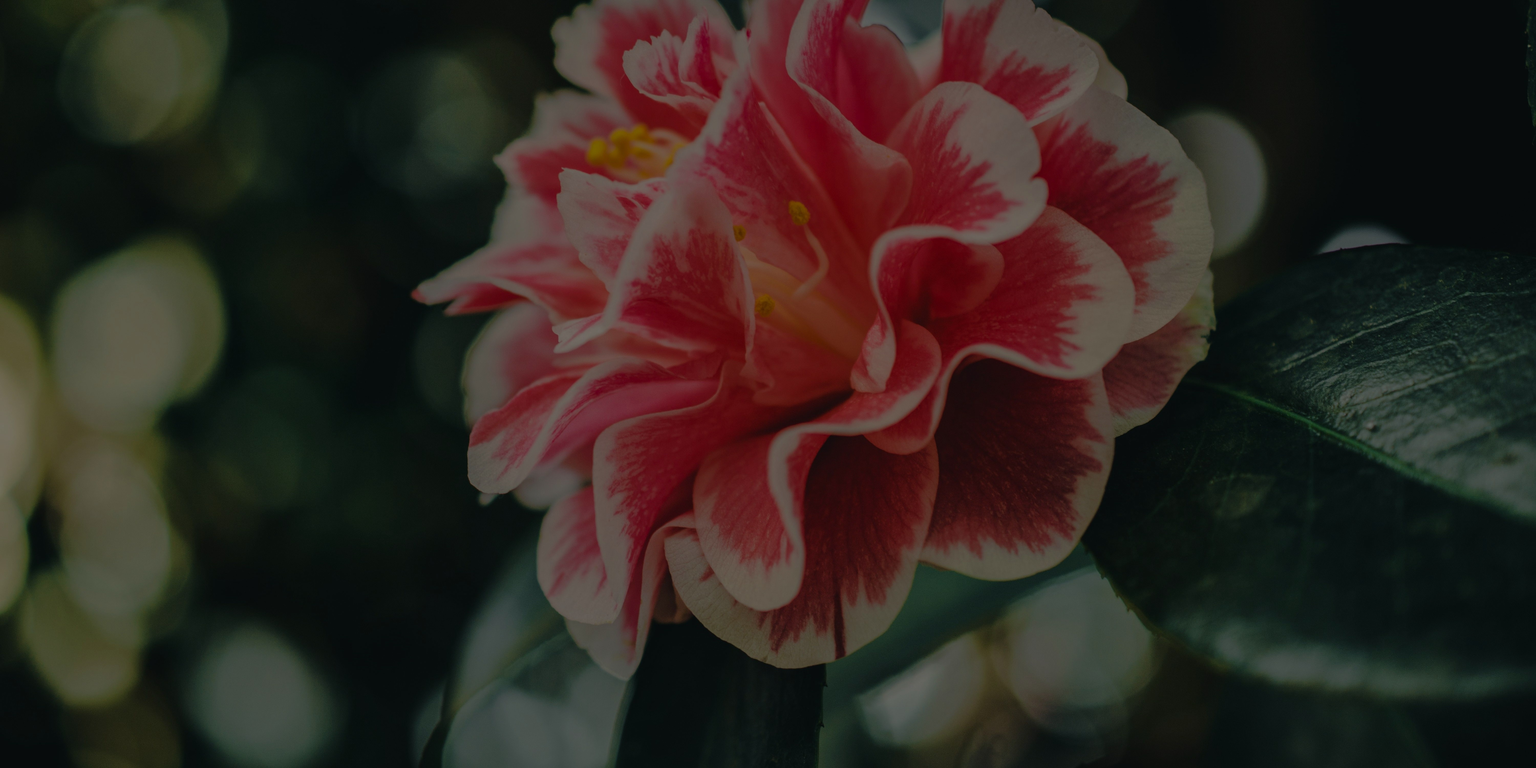
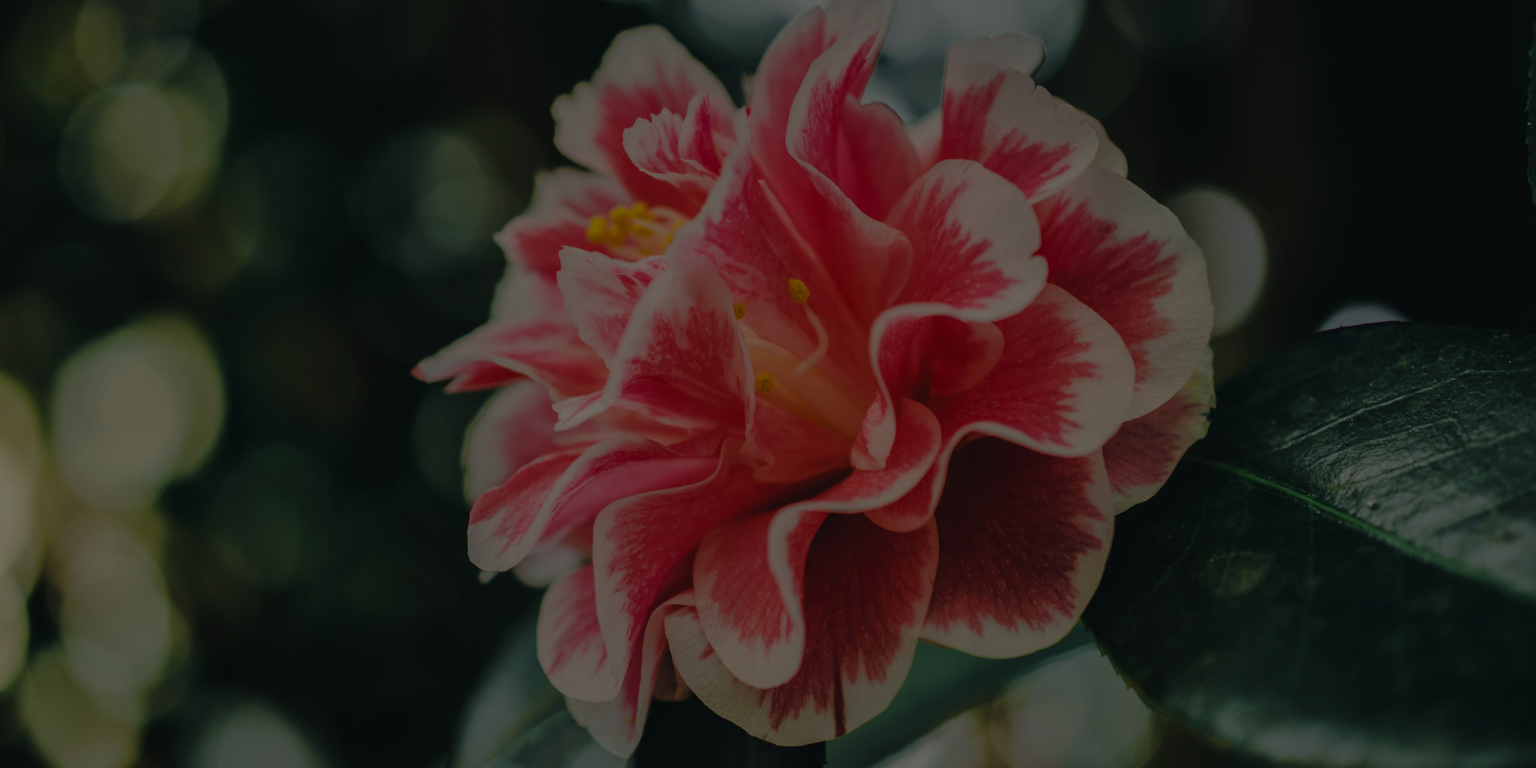
Creación y uso de las interfaces

diff --git a/src/app/pages/home/home.html b/src/app/pages/home/home.html
@@ -1,19 +1,31 @@
 <div id="carousel" class="carousel slide">
   <div class="carousel-indicators">
-    <button type="button" data-bs-target="#carousel" data-bs-slide-to="0" class="active" aria-current="true" aria-label="Slide 1"></button>
+    <button type="button" data-bs-target="#carousel" data-bs-slide-to="0" class="active" aria-current="true"
+      aria-label="Slide 1"></button>
     <button type="button" data-bs-target="#carousel" data-bs-slide-to="1" aria-label="Slide 2"></button>
     <button type="button" data-bs-target="#carousel" data-bs-slide-to="2" aria-label="Slide 3"></button>
   </div>
   <div class="carousel-inner">
-    <div class="carousel-item active">
-      <img src="../../../assets/camelia.jpg" class="d-block w-100" alt="...">
-      <div class="carousel-caption d-none d-md-block">
-        <h5>FLORES</h5>
-        <p>¡Haz click acá para comprar flores!</p>
+    <div *ngFor="let i of infoCarrusel" class="col-lg-3 col-md-3 col-sm-12 col-xs-12 mb-4 ">
+      <div class="carousel-item active">
+        <img src="../../../assets/camelia.jpg" class="d-block w-100" alt="...">
+        <div class="carousel-caption d-none d-md-block">
+          <h5>{{i.titulo}}</h5>
+          <p>¡Haz click acá para comprar flores!</p>
+        </div>
+
+        <div class="carousel-item">
+          <img src="{{i.img}}" class="d-block w-100" alt="{{i.alt}}">
+          <div class="carousel-caption d-none d-md-block">
+            <h5>{{i.titulo}}</h5>
+            <p>¡Haz click acá para comprar flores!</p>
+          </div>
+        </div>
       </div>
     </div>
-    <div class="carousel-item">
-      <img src="../../../assets/echeveria_elegans.jpg" class="d-block w-100" alt="...">
+
+    <!-- <div class="carousel-item">
+      <img src="" class="d-block w-100" alt="...">
       <div class="carousel-caption d-none d-md-block">
         <h5>POTUS</h5>
         <p>¡Haz click acá para comprar potus!</p>
@@ -25,13 +37,14 @@
         <h5>ÁRBOLES</h5>
         <p>¡Haz click acá para comprar árboles!</p>
       </div>
-    </div>
+    </div> -->
+
   </div>
-  <button class="carousel-control-prev" type="button" data-bs-target="#carouselExampleCaptions" data-bs-slide="prev">
+  <button class="carousel-control-prev" type="button" data-bs-target="#carousel" data-bs-slide="prev">
     <span class="carousel-control-prev-icon" aria-hidden="true"></span>
     <span class="visually-hidden">Previous</span>
   </button>
-  <button class="carousel-control-next" type="button" data-bs-target="#carouselExampleCaptions" data-bs-slide="next">
+  <button class="carousel-control-next" type="button" data-bs-target="#carousel" data-bs-slide="next">
     <span class="carousel-control-next-icon" aria-hidden="true"></span>
     <span class="visually-hidden">Next</span>
   </button>

diff --git a/src/index.html b/src/index.html
@@ -1,13 +1,55 @@
 <!doctype html>
 <html lang="en">
+
 <head>
   <meta charset="utf-8">
-  <title>Floristería</title>
+  <title>Floristería LOVE</title>
   <base href="/">
   <meta name="viewport" content="width=device-width, initial-scale=1">
-  <link rel="icon" type="image/x-icon" href="/public/planta-svgrepo-com.svg">
+  <link rel="icon" type="image/x-icon" href="./planta-svgrepo-com.svg"> <!--No se agrega "./public"-->
 </head>
+
 <body>
   <app-root></app-root>
+
+  <!-- FOOTER -->
+  <footer class="bg-black text-light pt-4 pb-2 mt-5">
+    <div class="container">
+      <div class="row">
+        <!-- Columna 1 -->
+        <div class="col-md-4 mb-3">
+          <h5 class="text-uppercase fw-bold">Floristería LOVE ❤</h5>
+          <p>Tu espacio para aprender y comprar. Hecho con mucho amor y Bootstrap.</p>
+        </div>
+
+        <!-- Columna 2 -->
+        <div class="col-md-4 mb-3">
+          <h5 class="text-uppercase fw-bold">Enlaces útiles</h5>
+          <ul class="list-unstyled">
+            <li><a href="#" class="text-light text-decoration-none">Inicio</a></li>
+            <li><a href="#" class="text-light text-decoration-none">Sobre nosotros</a></li>
+            <li><a href="#" class="text-light text-decoration-none">Servicios</a></li>
+            <li><a href="#" class="text-light text-decoration-none">Contacto</a></li>
+          </ul>
+        </div>
+
+        <!-- Columna 3 -->
+        <div class="col-md-4 mb-3">
+          <h5 class="text-uppercase fw-bold">Síguenos</h5>
+          <a href="#" class="text-light me-3" src=""><i class="bi bi-facebook fs-4"></i></a>
+          <a href="#" class="text-light me-3"><i class="bi bi-instagram fs-4"></i></a>
+          <a href="#" class="text-light me-3"><i class="bi bi-twitter-x fs-4"></i></a>
+          <a href="#" class="text-light"><i class="bi bi-envelope fs-4"></i></a>
+        </div>
+      </div>
+
+      <hr class="border-light">
+
+      <div class="text-center">
+        <p class="mb-0">&copy; 2025 Floristería LOVE. Todos los derechos reservados.</p>
+      </div>
+    </div>
+  </footer>
 </body>
+
 </html>

diff --git a/src/app/app.html b/src/app/app.html
@@ -3,30 +3,30 @@
     <a class="navbar-brand" href="/public/planta-svgrepo-com.svg"></a>
     <button class="navbar-toggler" type="button" data-bs-toggle="collapse" data-bs-target="#navbarSupportedContent"
       aria-controls="navbarSupportedContent" aria-expanded="false" aria-label="Toggle navigation">
-      <span class="navbar-toggler-icon"></span>
+      <span class="navbar-toggler-icon" ></span>
     </button>
     <div class="collapse navbar-collapse" id="navbarSupportedContent">
       <ul class="navbar-nav me-auto mb-2 mb-lg-0">
         <!--HOME-->
         <li class="nav-item">
-          <a class="nav-link active" aria-current="page" href="home">Home</a>
+          <a class="nav-link active" aria-current="page" href="home" id="text">Home</a>
         </li>
         <!--ABOUT-->
         <li class="nav-item">
-          <a class="nav-link" href="about">Nosotros</a>
+          <a class="nav-link" href="about" id="text">Nosotros</a>
         </li>
         <!--PRODUCTS-->
         <li class="nav-item">
-          <a class="nav-link" href="products">Productos</a>
+          <a class="nav-link" href="products" id="text">Productos</a>
         </li>
         <!--CONTACT-->
         <li class="nav-item">
-          <a class="nav-link" href="contact">Contáctanos</a>
+          <a class="nav-link" href="contact" id="text">Contáctanos</a>
         </li>
       </ul>
       <form class="d-flex" role="search">
-        <input class="form-control me-2" type="search" placeholder="Search" aria-label="Search" />
-        <button class="btn btn-outline-success" type="submit">Search</button>
+        <input class="form-control me-2" type="search" placeholder="Search" aria-label="Search"/>
+        <button class="btn btn-outline-success" type="submit"><i class="bi bi-search"></i></button>
       </form>
     </div>
   </div>

diff --git a/src/app/pages/home/home.ts b/src/app/pages/home/home.ts
@@ -1,11 +1,38 @@
 import { Component } from '@angular/core';
+import { Carrousel } from '../../models/productos';
+import { CommonModule } from '@angular/common';
+
 
 @Component({
   selector: 'app-home',
-  imports: [],
+  imports: [CommonModule],
   templateUrl: './home.html',
   styleUrl: './home.css'
 })
 export class Home {
 
+  public infoCarrusel: Carrousel[];
+
+  constructor() {
+    this.infoCarrusel = [
+      {
+        id: "1F",
+        img: "../../../assets/camelia.jpg",
+        alt: "Foto de una flor de Camelia",
+        titulo: "FLORES"
+      },
+      {
+        id: "2F",
+        img: "../../../assets/echeveria_elegans.jpg",
+        alt: "Foto de una potus llamado Echeveria Elegans",
+        titulo: "POTUS"
+      },
+      {
+        id: "3F",
+        img: "../../../assets/ficus_benjamina.jpg",
+        alt: "Foto de un arbolito llamado Ficus Benjamina",
+        titulo: "ÁRBOLES"
+      },
+    ]
+  }
 }

diff --git a/src/app/pages/home/home.css b/src/app/pages/home/home.css
@@ -1,13 +1,26 @@
-/*Título llamado por id*/ 
-#title{
+/*Título llamado por id*/
+#title {
     font-size: 35px;
-    color: pink;
+    color: black;
     text-align: center;
     padding-top: 1rem;
 }
 
+#carousel {
+    height: 400px !important;
+    /* Forzá el alto */
+    overflow: hidden;
+}
+
+.carousel-inner img {
+    height: 400px;
+    object-fit: cover;
+    /* Ajusta la imagen sin deformarla */
+}
+
 .card {
-    margin-top: 1rem; /* 1rem = 15px*/
+    margin-top: 1rem;
+    /* 1rem = 15px*/
 }
 
 /*Botón llamado por la clase*/
@@ -17,7 +30,7 @@
 }
 
 .btn-action:hover {
-    background-color: pink;
+    background-color: rgb(89, 146, 89);
 }
 
 .card-img-top {

diff --git a/src/app/pages/products/secciones/new-product/new-product.html b/src/app/pages/products/secciones/new-product/new-product.html
@@ -1,0 +1,22 @@
+<div class="container">
+    <h2>Nuevo Prducto</h2>
+
+    <!--Inserto etiqueta "formGroup" para crear un formulario y lo iguala a su nombre-->
+    <form [formGroup]="formGroup">
+        <div class="mb-3">
+            <label for="nombre" class="form-label">Nombre</label>
+            <input id="nombre" type="text" class="form-label">
+        </div>
+
+        <div class=" mb-3">
+             <label for="precio" class="form-label">Precio</label>
+            <input id="precio" type="number" class="form-control">
+        </div>
+
+        <div class="mb-3"></div>
+
+        <div class="mb-3"></div>
+
+        <div class="mb-3"></div>
+    </form>
+</div>

diff --git a/src/app/pages/products/secciones/new-product/new-product.ts b/src/app/pages/products/secciones/new-product/new-product.ts
@@ -1,0 +1,20 @@
+import { Component } from '@angular/core';
+import { Products } from "../../../../models/products";
+import { FormControl, FormGroup, ReactiveFormsModule, Validators } from "@angular/forms";
+
+/*
+FormControl: Controlador de cada dato ingreado en el formulario.
+FromGroup: Directiva para formularios reactivos en Angular, agrupa a FormControl.
+ReactiveFormsModule: Permite hacer uso de formularios reactivos.
+Validators: Valida los datos ingresados en un formulario.
+*/
+
+@Component({
+  selector: 'app-new-product',
+  imports: [],
+  templateUrl: './new-product.html',
+  styleUrl: './new-product.css'
+})
+export class NewProduct {
+
+}

diff --git a/src/app/pages/products/secciones/producto-seccion1/producto-seccion1.spec.ts b/src/app/pages/products/secciones/producto-seccion1/producto-seccion1.spec.ts
@@ -1,0 +1,23 @@
+import { ComponentFixture, TestBed } from '@angular/core/testing';
+
+import { ProductoSeccion1 } from './producto-seccion1';
+
+describe('ProductoSeccion1', () => {
+  let component: ProductoSeccion1;
+  let fixture: ComponentFixture<ProductoSeccion1>;
+
+  beforeEach(async () => {
+    await TestBed.configureTestingModule({
+      imports: [ProductoSeccion1]
+    })
+    .compileComponents();
+
+    fixture = TestBed.createComponent(ProductoSeccion1);
+    component = fixture.componentInstance;
+    fixture.detectChanges();
+  });
+
+  it('should create', () => {
+    expect(component).toBeTruthy();
+  });
+});

diff --git a/src/app/pages/products/secciones/producto-seccion2/producto-seccion2.spec.ts b/src/app/pages/products/secciones/producto-seccion2/producto-seccion2.spec.ts
@@ -1,0 +1,23 @@
+import { ComponentFixture, TestBed } from '@angular/core/testing';
+
+import { ProductoSeccion2 } from './producto-seccion2';
+
+describe('ProductoSeccion2', () => {
+  let component: ProductoSeccion2;
+  let fixture: ComponentFixture<ProductoSeccion2>;
+
+  beforeEach(async () => {
+    await TestBed.configureTestingModule({
+      imports: [ProductoSeccion2]
+    })
+    .compileComponents();
+
+    fixture = TestBed.createComponent(ProductoSeccion2);
+    component = fixture.componentInstance;
+    fixture.detectChanges();
+  });
+
+  it('should create', () => {
+    expect(component).toBeTruthy();
+  });
+});

diff --git a/src/app/pages/products/secciones/new-product/new-product.spec.ts b/src/app/pages/products/secciones/new-product/new-product.spec.ts
@@ -1,0 +1,23 @@
+import { ComponentFixture, TestBed } from '@angular/core/testing';
+
+import { NewProduct } from './new-product';
+
+describe('NewProduct', () => {
+  let component: NewProduct;
+  let fixture: ComponentFixture<NewProduct>;
+
+  beforeEach(async () => {
+    await TestBed.configureTestingModule({
+      imports: [NewProduct]
+    })
+    .compileComponents();
+
+    fixture = TestBed.createComponent(NewProduct);
+    component = fixture.componentInstance;
+    fixture.detectChanges();
+  });
+
+  it('should create', () => {
+    expect(component).toBeTruthy();
+  });
+});

diff --git a/src/app/pages/gallery/gallery.spec.ts b/src/app/pages/gallery/gallery.spec.ts
@@ -1,0 +1,23 @@
+import { ComponentFixture, TestBed } from '@angular/core/testing';
+
+import { Gallery } from './gallery';
+
+describe('Gallery', () => {
+  let component: Gallery;
+  let fixture: ComponentFixture<Gallery>;
+
+  beforeEach(async () => {
+    await TestBed.configureTestingModule({
+      imports: [Gallery]
+    })
+    .compileComponents();
+
+    fixture = TestBed.createComponent(Gallery);
+    component = fixture.componentInstance;
+    fixture.detectChanges();
+  });
+
+  it('should create', () => {
+    expect(component).toBeTruthy();
+  });
+});

diff --git a/src/app/pages/offers/offers.spec.ts b/src/app/pages/offers/offers.spec.ts
@@ -1,0 +1,23 @@
+import { ComponentFixture, TestBed } from '@angular/core/testing';
+
+import { Offers } from './offers';
+
+describe('Offers', () => {
+  let component: Offers;
+  let fixture: ComponentFixture<Offers>;
+
+  beforeEach(async () => {
+    await TestBed.configureTestingModule({
+      imports: [Offers]
+    })
+    .compileComponents();
+
+    fixture = TestBed.createComponent(Offers);
+    component = fixture.componentInstance;
+    fixture.detectChanges();
+  });
+
+  it('should create', () => {
+    expect(component).toBeTruthy();
+  });
+});
